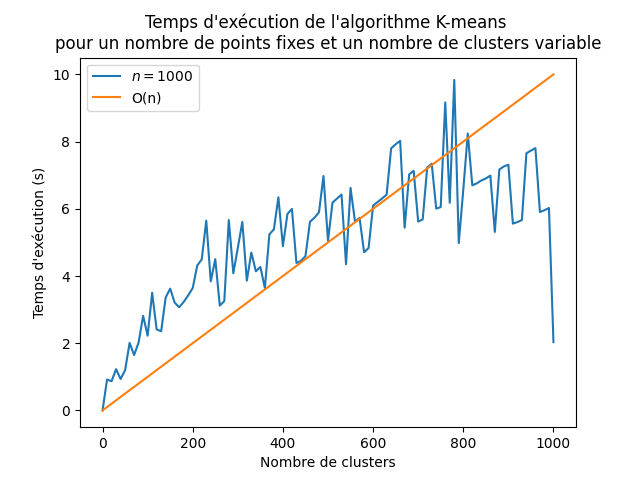
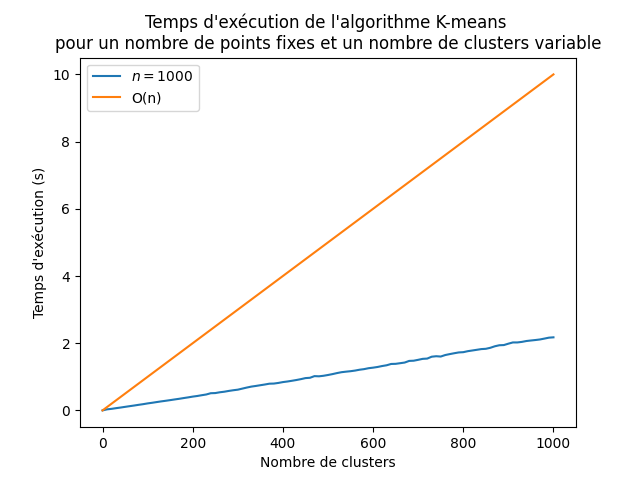
fix kmeans & update plots

diff --git a/plot/kmeans_plot.py b/plot/kmeans_plot.py
@@ -2,74 +2,86 @@ import numpy as np
 import matplotlib.pyplot as plt
 from time import perf_counter as clock
 
-def kmeans2D(n, cities_coordinates, weights, max_iter = 300) :
-        centroids = np.zeros((n, 2))
-        for i in range(n):
+def kmeans_iteration(N_satellites, cities_coordinates, weights, max_iter = 300) :
+        ### ATTENTION DEFINIR UNE VALEUR  de seuil###
+        
+        for i in range(len(cities_coordinates)):
+            cities_coordinates[i] /= np.linalg.norm(cities_coordinates[i])
+        
+        n = len(cities_coordinates)
+        centroids = np.zeros((N_satellites, 3))
+        for i in range(N_satellites):
             centroids[i] = cities_coordinates[i%len(cities_coordinates)]
 
-        iteration = 0
-        prev_centroids = None
-        while prev_centroids is None or (iteration < max_iter and not np.allclose(prev_centroids, centroids)):
-            classif = {i:{} for i in range(n)}
-            for i in range(len(cities_coordinates)):
-                dist = [np.linalg.norm(cities_coordinates[i] - c) for c in centroids]
-
-                closest_cluster = dist.index(min(dist))
-                classif[closest_cluster][i] = cities_coordinates[i]
+        clusters = [[] for _ in range(N_satellites)]
+            
+        for i in range(n):
+            distances = np.array([np.linalg.norm(centroids[j] - cities_coordinates[i]) for j in range(N_satellites)])
+            nearest_clusters = np.argsort(distances)
+            clusters[nearest_clusters[0]].append(i)
                 
-            prev_centroids = centroids.copy()
-            for cluster in range(len(classif)):
-                if len(classif[cluster]) == 0:
-                    centroids[cluster] = cities_coordinates[np.random.randint(0, n)]
-                else:
-                    indexes = [i for i in classif[cluster].keys()]
-                    centroids[cluster] = np.average(cities_coordinates[indexes], axis=0, weights=weights[indexes])
-            iteration += 1
-        return iteration
+        for k in range(N_satellites):
+            if len(clusters[k]) == 0: 
+                centroids[k] = cities_coordinates[np.random.randint(n)]
+                continue
+                
+            centroids[k] = np.average(cities_coordinates[clusters[k]], axis=0, weights=weights[clusters[k]])
+
+    
     
 
-def test_N_fixed(N, iterations):
+def test_N_fixed(N, iterations, average_iteration):
     results1 = np.zeros((iterations + 1, 2))
     for i in range(1, iterations + 1):
-        n = i*50
-        cities_coordinates = np.random.rand(n, 2)*20
-        weights = np.random.rand(n)
-        s = clock()
-        kmeans2D(N, cities_coordinates, weights)
-        results1[i, :] = [n, clock() - s]
+        time = 0
+        for _ in range(average_iteration):
+            n = i*50
+            cities_coordinates = np.random.rand(n, 3)*20
+            weights = np.random.rand(n)
+            s = clock()
+            kmeans_iteration(N, cities_coordinates, weights)
+            time += clock() - s
+            print(f"{_}/{average_iteration} | {i}")
+        results1[i, :] = [n, time/average_iteration]
         print(i)
     return results1
 
-def test_n_fixed(n, iterations):
+def test_n_fixed(n, iterations, average_iteration):
     results2 = np.zeros((iterations + 1, 2))
     for i in range(1, iterations + 1):
-        N = 10*i
-        cities_coordinates = np.random.rand(n, 2)*20
-        weights = np.random.rand(n)
-        s = clock()
-        kmeans2D(N, cities_coordinates, weights)
-        results2[i, :] = [N, clock() - s]
+        time = 0
+        for _ in range(average_iteration):
+            N = 10*i
+            cities_coordinates = np.random.rand(n, 3)*20
+            weights = np.random.rand(n)
+            s = clock()
+            kmeans_iteration(N, cities_coordinates, weights)
+            time += clock() - s
+            print(f"{_}/{average_iteration} | {i}")
+        results2[i, :] = [N, time/average_iteration]
         print(i)
     return results2
 
     
-iterations = 100
-# results1 = test_N_fixed(50, iterations)
-results2 = test_n_fixed(1000, iterations)
+iterations = 50
+average_iteration = 10
+
+results1 = test_N_fixed(50, iterations, average_iteration)
+results2 = test_n_fixed(1000, iterations, average_iteration)
     
 
-# plt.plot(results1[1:, 0], results1[1:, 1], label = r"$N = 50$")
-# plt.plot(results1[1:, 0], 5e-3*results1[1:, 0], label = r"O(n)")
-# plt.title("Temps d'exécution de l'algorithme K-means \npour un nombre de clusters fixes et un nombre de points variable")
-# plt.xlabel("Nombre de points")
-# plt.ylabel("Temps d'exécution (s)")
-# plt.legend()
-# plt.savefig("kmeans_plot_N_50.png")
+plt.plot(results1[1:, 0], results1[1:, 1], label = r"$N = 50$")
+plt.plot(results1[1:, 0], 5e-3*results1[1:, 0], label = r"O(n)")
+plt.title("Temps d'exécution de l'algorithme K-means \npour un nombre de clusters fixes et un nombre de points variable")
+plt.xlabel("Nombre de points")
+plt.ylabel("Temps d'exécution (s)")
+plt.legend()
+plt.savefig("kmeans_plot_N_50.png")
 
-# plt.clf()
+plt.clf()
 
 plt.plot(results2[:, 0], results2[:, 1], label = r"$n = 1000$")
-plt.plot(results2[:, 0], 1e-2*results2[:, 0], label = r"O(n)")
+plt.plot(results2[:, 0], 2e-3*results2[:, 0], label = r"O(n)")
 plt.title("Temps d'exécution de l'algorithme K-means \npour un nombre de points fixes et un nombre de clusters variable")
 plt.xlabel("Nombre de clusters")
 plt.ylabel("Temps d'exécution (s)")

diff --git a/kmeans.py b/kmeans.py
@@ -70,8 +70,7 @@ class Kmeans :
             
             for i in range(n):
                 distances = np.array([np.linalg.norm(centroids[j] - cities_coordinates[i]) for j in range(self.problem.N_satellites)])
-                
-                nearest_clusters = np.argsort(distances)
+                nearest_clusters = np.argsort(distances)        
                 j = 0
                 while j < self.problem.N_satellites and (sum(map(lambda x: self.problem.cities_weights[x], clusters[nearest_clusters[j]])) + self.problem.cities_weights[i]) * self.problem.I_necessary >= self.problem.P/(36e3)**2:
                     j+=1
@@ -82,13 +81,12 @@ class Kmeans :
                 clusters[nearest_clusters[j]].append(i)
                 
             for k in range(self.problem.N_satellites):
-                s = np.sum(cities_coordinates[clusters[k]], axis=0)
-
-                norm = np.linalg.norm(s)
-                if len(s) == 0 or norm == 0:
+                if len(clusters[k]) == 0: 
                     centroids[k] = cities_coordinates[np.random.randint(n)]
                     continue
-                centroids[k] = s/norm
+                
+                centroids[k] = np.average(cities_coordinates[clusters[k]], axis=0, weights=self.problem.cities_weights[clusters[k]])
+
             iteration+=1
         self.problem.sat_coordinates = cart2gps(centroids*self.problem.H)
         return iteration
